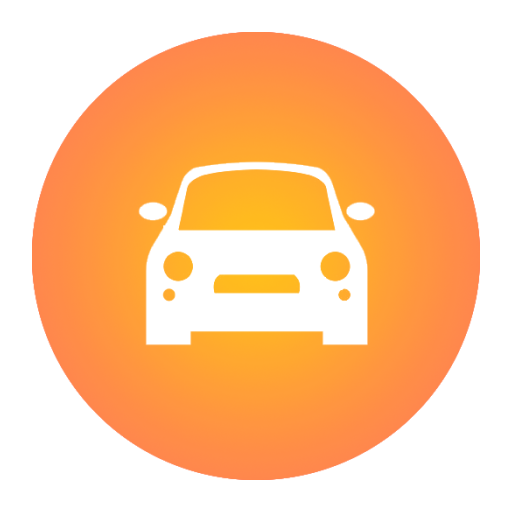
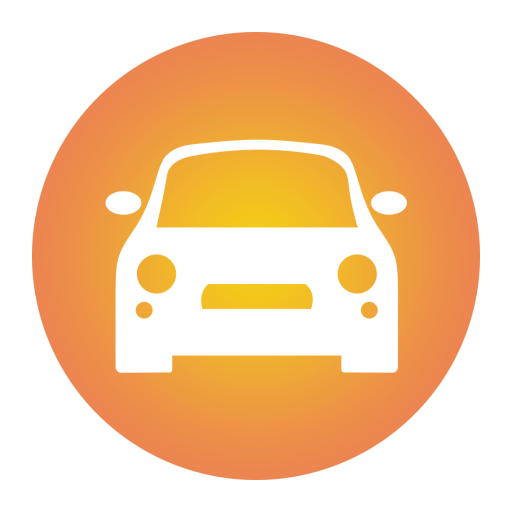
Icone modificate

Changed region(s): [[0.1875, 0.25, 0.8125, 0.75]]

diff --git a/app/src/main/java/com/capone/lavorato/mlpark/MapsActivity.java b/app/src/main/java/com/capone/lavorato/mlpark/MapsActivity.java
@@ -405,7 +405,7 @@ public class MapsActivity extends FragmentActivity implements OnMapReadyCallback
     //funzione per ingrandire marker e personalizzarlo
     private Bitmap iconScaler(int height, int width){
 
-        BitmapDrawable  bitmapdraw = (BitmapDrawable) getResources().getDrawable(R.mipmap.poffy_car);
+        BitmapDrawable  bitmapdraw = (BitmapDrawable) getResources().getDrawable(R.mipmap.marker_car);
         Bitmap b = bitmapdraw.getBitmap();
         Bitmap bigmarker = Bitmap.createScaledBitmap(b,width,height,false);
 
